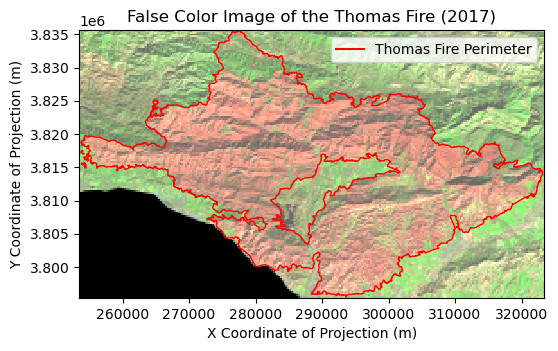
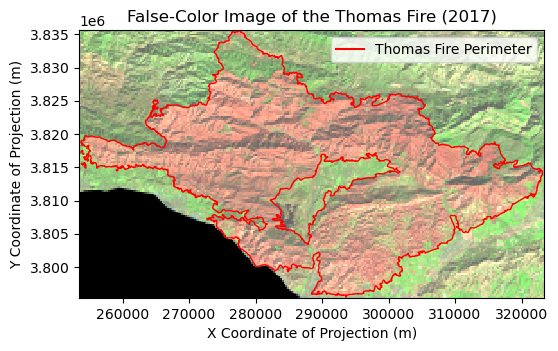
edits

Changed region(s): [[0.3047, 0.0285, 0.914, 0.0855]]

diff --git a/docs/posts/2024-12-13-thomas-fire/index.html b/docs/posts/2024-12-13-thomas-fire/index.html
@@ -302,7 +302,10 @@ pre > code.sourceCode > span > a:first-child::before { text-decoration: underlin
 <span id="cb10-5"><a href="#cb10-5" aria-hidden="true" tabindex="-1"></a>                             kind <span class="op">=</span> <span class="st">"line"</span>,</span>
 <span id="cb10-6"><a href="#cb10-6" aria-hidden="true" tabindex="-1"></a>                             color<span class="op">=</span>[<span class="st">"red"</span>, <span class="st">"blue"</span>])</span>
 <span id="cb10-7"><a href="#cb10-7" aria-hidden="true" tabindex="-1"></a></span>
-<span id="cb10-8"><a href="#cb10-8" aria-hidden="true" tabindex="-1"></a>ax.legend([<span class="st">"Daily"</span>, <span class="st">"5-Day Average"</span>])</span></code><button title="Copy to Clipboard" class="code-copy-button"><i class="bi"></i></button></pre></div>
+<span id="cb10-8"><a href="#cb10-8" aria-hidden="true" tabindex="-1"></a>ax.legend([<span class="st">"Daily"</span>, <span class="st">"5-Day Average"</span>])</span>
+<span id="cb10-9"><a href="#cb10-9" aria-hidden="true" tabindex="-1"></a></span>
+<span id="cb10-10"><a href="#cb10-10" aria-hidden="true" tabindex="-1"></a>fig <span class="op">=</span> ax.get_figure()  <span class="co"># Get the Matplotlib figure object</span></span>
+<span id="cb10-11"><a href="#cb10-11" aria-hidden="true" tabindex="-1"></a>fig.savefig(<span class="st">"sb_aqi_2017_plot.png"</span>, dpi<span class="op">=</span><span class="dv">300</span>, bbox_inches<span class="op">=</span><span class="st">"tight"</span>)</span></code><button title="Copy to Clipboard" class="code-copy-button"><i class="bi"></i></button></pre></div>
 <div class="cell-output cell-output-display">
 <div>
 <figure class="figure">
@@ -367,7 +370,7 @@ pre > code.sourceCode > span > a:first-child::before { text-decoration: underlin
 <span id="cb18-7"><a href="#cb18-7" aria-hidden="true" tabindex="-1"></a>                 edgecolor <span class="op">=</span> <span class="st">"red"</span>, </span>
 <span id="cb18-8"><a href="#cb18-8" aria-hidden="true" tabindex="-1"></a>                 linewidth <span class="op">=</span> <span class="dv">1</span>)</span>
 <span id="cb18-9"><a href="#cb18-9" aria-hidden="true" tabindex="-1"></a></span>
-<span id="cb18-10"><a href="#cb18-10" aria-hidden="true" tabindex="-1"></a>ax.set_title(<span class="st">"False Color Image of the Thomas Fire (2017)"</span>)</span>
+<span id="cb18-10"><a href="#cb18-10" aria-hidden="true" tabindex="-1"></a>ax.set_title(<span class="st">"False-Color Image of the Thomas Fire (2017)"</span>)</span>
 <span id="cb18-11"><a href="#cb18-11" aria-hidden="true" tabindex="-1"></a>ax.set_xlabel(<span class="st">"X Coordinate of Projection (m)"</span>)</span>
 <span id="cb18-12"><a href="#cb18-12" aria-hidden="true" tabindex="-1"></a>ax.set_ylabel(<span class="st">"Y Coordinate of Projection (m)"</span>)</span>
 <span id="cb18-13"><a href="#cb18-13" aria-hidden="true" tabindex="-1"></a>legend_elements <span class="op">=</span> [Line2D([<span class="dv">0</span>], [<span class="dv">0</span>], </span>
@@ -390,18 +393,18 @@ pre > code.sourceCode > span > a:first-child::before { text-decoration: underlin
 <h2 class="anchored" data-anchor-id="final-visualizations">Final Visualizations</h2>
 <div class="quarto-figure quarto-figure-center">
 <figure class="figure">
-<p><img src="index_files/figure-html/a9d4ef50-f029-4346-ab5d-55e190a86201-1-7759ca7c-638d-4593-ad64-a123f842fc17.jpg" class="img-fluid figure-img"></p>
-<figcaption>ax_plot.jpg</figcaption>
+<p><img src="index_files/figure-html/a9d4ef50-f029-4346-ab5d-55e190a86201-1-c3670d27-e6ff-4087-aa71-258538658f60.png" class="img-fluid figure-img"></p>
+<figcaption>sb_aqi_2017_plot.png</figcaption>
 </figure>
 </div>
 <p>The plot illustrates the Air Quality Index (AQI) in Santa Barbara throughout 2017. At the end of the year, both the daily and 5-day average AQIs show a significant spike in December, coinciding with the occurrence of the Thomas fire. This demonstrates how the Thomas fire contributed to poorer air quality, which likely impacted local communities.</p>
 <div class="quarto-figure quarto-figure-center">
 <figure class="figure">
-<p><img src="index_files/figure-html/1e0fc815-9f75-46cd-81ca-3de45eb4f830-1-6b4a59da-8424-4de0-82c5-ec4ffab06064.jpg" class="img-fluid figure-img"></p>
-<figcaption>ax_map.jpg</figcaption>
+<p><img src="index_files/figure-html/1e0fc815-9f75-46cd-81ca-3de45eb4f830-1-5547b4ff-4e6b-4739-86e0-4da6a3dbe5b2.png" class="img-fluid figure-img"></p>
+<figcaption>thomas_fire_map.png</figcaption>
 </figure>
 </div>
-<p>The map illustrates the effects of the Thomas Fire, which occurred in 2017. The false color image (using shortwave infrared, near-infrared, and red wavelengths) highlights areas of the burn scar on vegetation in red. In this imagery, green is typically used to assess vegetation health and density; the brighter or more vivid the green, the healthier and denser the vegetation appears.</p>
+<p>The map illustrates the effects of the Thomas Fire, which occurred in 2017. The false-color image (using shortwave infrared, near-infrared, and red wavelengths) highlights areas of the burn scar on vegetation in red. In this imagery, green is typically used to assess vegetation health and density; the brighter or more vivid the green, the healthier and denser the vegetation appears.</p>
 </section>
 <section id="data-references" class="level2">
 <h2 class="anchored" data-anchor-id="data-references">Data References</h2>

diff --git a/docs/about.html b/docs/about.html
@@ -146,7 +146,7 @@ ul.task-list li input[type="checkbox"] {
 <section id="education" class="level2">
 <h2 class="anchored" data-anchor-id="education">Education</h2>
 <p><strong>Master of Environmental Data Science (MEDS)</strong> (Expected June 2025)</p>
-<p><strong>Bren School of Environmental Data Science &amp; Management — University of California, Santa Barbara (UCSB)</strong></p>
+<p><strong>Bren School of Environmental Science &amp; Management — University of California, Santa Barbara (UCSB)</strong></p>
 <ul>
 <li><em>Highlighted Coursework:</em> Python for Environmental Data Science, Scientific Programming Essentials, Geospatial Analysis and Remote Sensing, Working with Environmental Datasets</li>
 </ul>
@@ -156,7 +156,7 @@ ul.task-list li input[type="checkbox"] {
 </figure>
 </div>
 <p><strong>Bachelor of Science, Biology | Minor in Dance</strong> (December 2023)</p>
-<p><strong>College of Natural Sciences &amp; Mathematics — California State University, Long Beach (CSULB)</strong></p>
+<p><strong>College of Natural Sciences and Mathematics — California State University, Long Beach (CSULB)</strong></p>
 <ul>
 <li><em>Highlighted Coursework:</em> Conservation Biology, Population Ecology, Biostatistics, Geographic Information Science for Natural Sciences, Undergraduate Directed Research</li>
 </ul>

diff --git a/docs/posts.html b/docs/posts.html
@@ -246,7 +246,7 @@ Dec 20, 2024
 </div>
 </a>
 </div>
-<div class="g-col-1" data-index="1" data-categories="AQI,False-Color Imagery,Remote Sensing" data-listing-date-sort="1734076800000" data-listing-file-modified-sort="1734815788406" data-listing-date-modified-sort="NaN" data-listing-reading-time-sort="5" data-listing-word-count-sort="944">
+<div class="g-col-1" data-index="1" data-categories="AQI,False-Color Imagery,Remote Sensing" data-listing-date-sort="1734076800000" data-listing-file-modified-sort="1735057970978" data-listing-date-modified-sort="NaN" data-listing-reading-time-sort="5" data-listing-word-count-sort="943">
 <a href="./posts/2024-12-13-thomas-fire/index.html" class="quarto-grid-link">
 <div class="quarto-grid-item card h-100 card-left">
 <p class="card-img-top">

diff --git a/styles.scss b/styles.scss
@@ -18,4 +18,3 @@ $link-color: $brat-green; // link highlight
 
 
 
-
